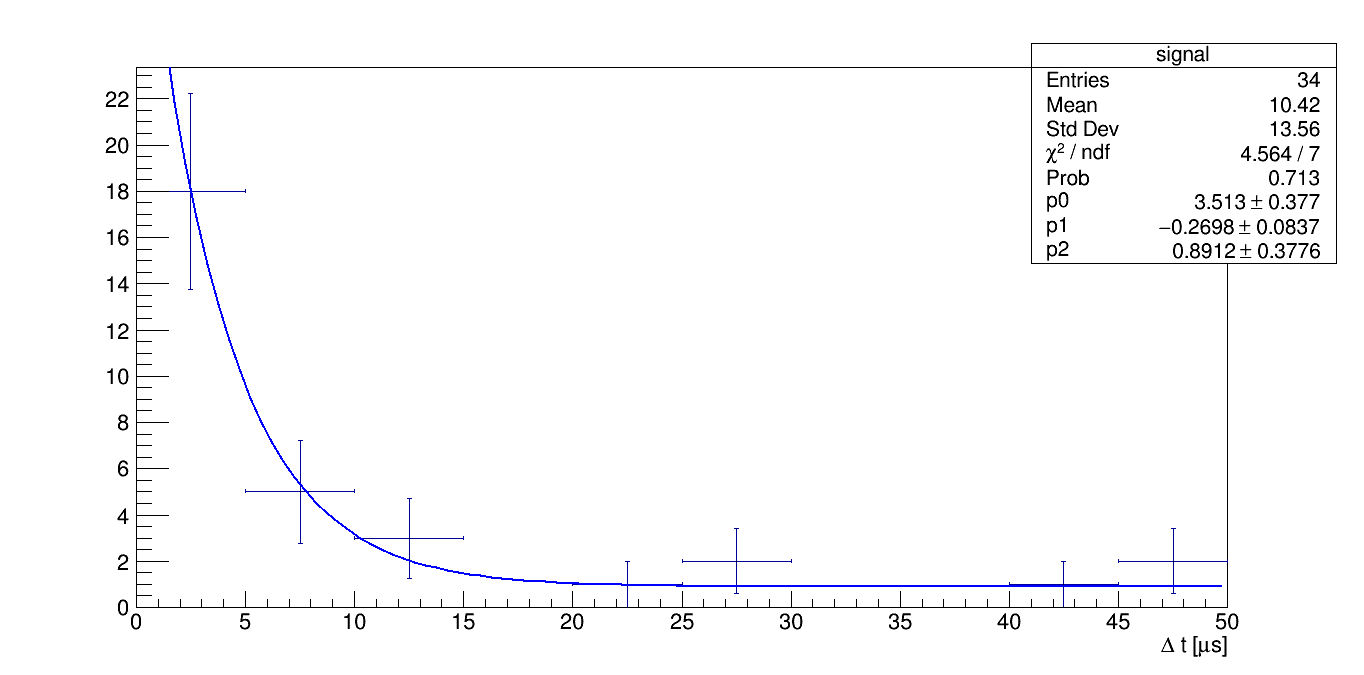
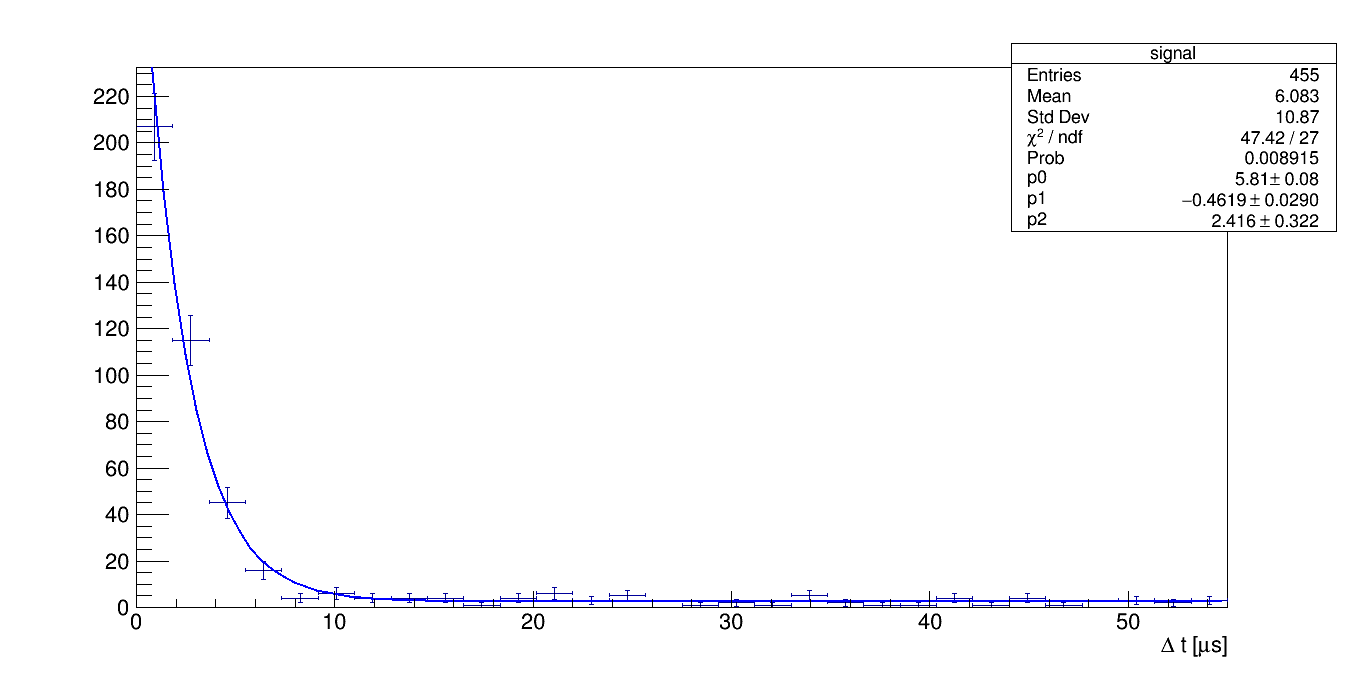
Fit figures update

diff --git a/data/iron/time_analysis.C b/data/iron/time_analysis.C
@@ -1,12 +1,12 @@
 
 void time_analysis() {
 
-  double tmin1 = 0., tmax1 = 50.;
+  double tmin1 = 1.8, tmax1 = 22.5;
   double tmin2 = tmin1, tmax2 = 55.0;
 
-  int nbins = 10;
+  int nbins = 30;
 
-  auto f1 = new TFile("var2.root");
+  auto f1 = new TFile("total.root");
   auto f2 = new TFile("bkg.root");
 
   auto t1 = f1->Get<TTree>("events");
@@ -25,7 +25,7 @@ void time_analysis() {
     tree->SetBranchAddress("channel", &channel);
     tree->SetBranchAddress("times", &times);
 
-    for (auto i=0; i<tree->GetEntries()-2; i++) {
+    for (auto i=0; i<tree->GetEntries()-1; i++) {
       int ch_i, ch_ii;
       double times_i, times_ii;
 
@@ -33,7 +33,7 @@ void time_analysis() {
       ch_i = channel;
       times_i = times;
 
-      tree->GetEntry(i+2);
+      tree->GetEntry(i+1);
       ch_ii = channel;
       times_ii = times;
 
